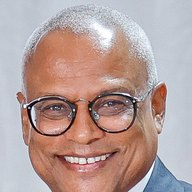
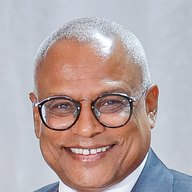
Neves fotója középre igazítva
Claude-Session: https://claude.ai/code/session_01J8PjfkUCs1TyppvFaUMZMM

diff --git a/zold-foki-szigetek-valasztas.html b/zold-foki-szigetek-valasztas.html
@@ -107,7 +107,7 @@
 (function(){"use strict";
 const $=id=>document.getElementById(id),esc=s=>String(s==null?"":s).replace(/[&<>"]/g,c=>({"&":"&amp;","<":"&lt;",">":"&gt;",'"':"&quot;"}[c]));
 const nf=n=>n==null?"–":String(Math.round(n)).replace(/\B(?=(\d{3})+(?!\d))/g," "),pf=x=>x==null?"–":x.toFixed(2).replace(".",",")+"%";
-const PART={"José Maria Neves":"PAICV · hivatalban lévő elnök","Joana Rosa":"MpD · volt igazságügy-miniszter"};const KEP={"José Maria Neves":"assets/cv/neves.jpg","Joana Rosa":"assets/cv/rosa.jpg"};const AV=(x,i)=>KEP[x.n]?'<img class="av" src="'+KEP[x.n]+'" alt="'+esc(x.n)+'" width="58" height="58" style="--c:'+col(x.n,i)+'">':'<div class="av" style="background:'+col(x.n,i)+'">'+ini(x.n)+'</div>';const ini=n=>n.split(/\s+/).filter(w=>w.length>2).map(w=>w[0]).slice(0,2).join("").toUpperCase();
+const PART={"José Maria Neves":"PAICV · hivatalban lévő elnök","Joana Rosa":"MpD · volt igazságügy-miniszter"};const KEP={"José Maria Neves":"assets/cv/neves.jpg?v=2","Joana Rosa":"assets/cv/rosa.jpg"};const AV=(x,i)=>KEP[x.n]?'<img class="av" src="'+KEP[x.n]+'" alt="'+esc(x.n)+'" width="58" height="58" style="--c:'+col(x.n,i)+'">':'<div class="av" style="background:'+col(x.n,i)+'">'+ini(x.n)+'</div>';const ini=n=>n.split(/\s+/).filter(w=>w.length>2).map(w=>w[0]).slice(0,2).join("").toUpperCase();
 const COL={"José Maria Neves":"#E8B400","Joana Rosa":"#2E9E57"},PAL=["#E8B400","#2E9E57","#4C8DF6","#C0504D","#8E6BD8","#3FB6B2"];
 const col=(n,i)=>COL[n]||PAL[i%PAL.length];
 const EL="https://raw.githubusercontent.com/medence32-beep/valasztas-adat/elo/cv-elo.json";
